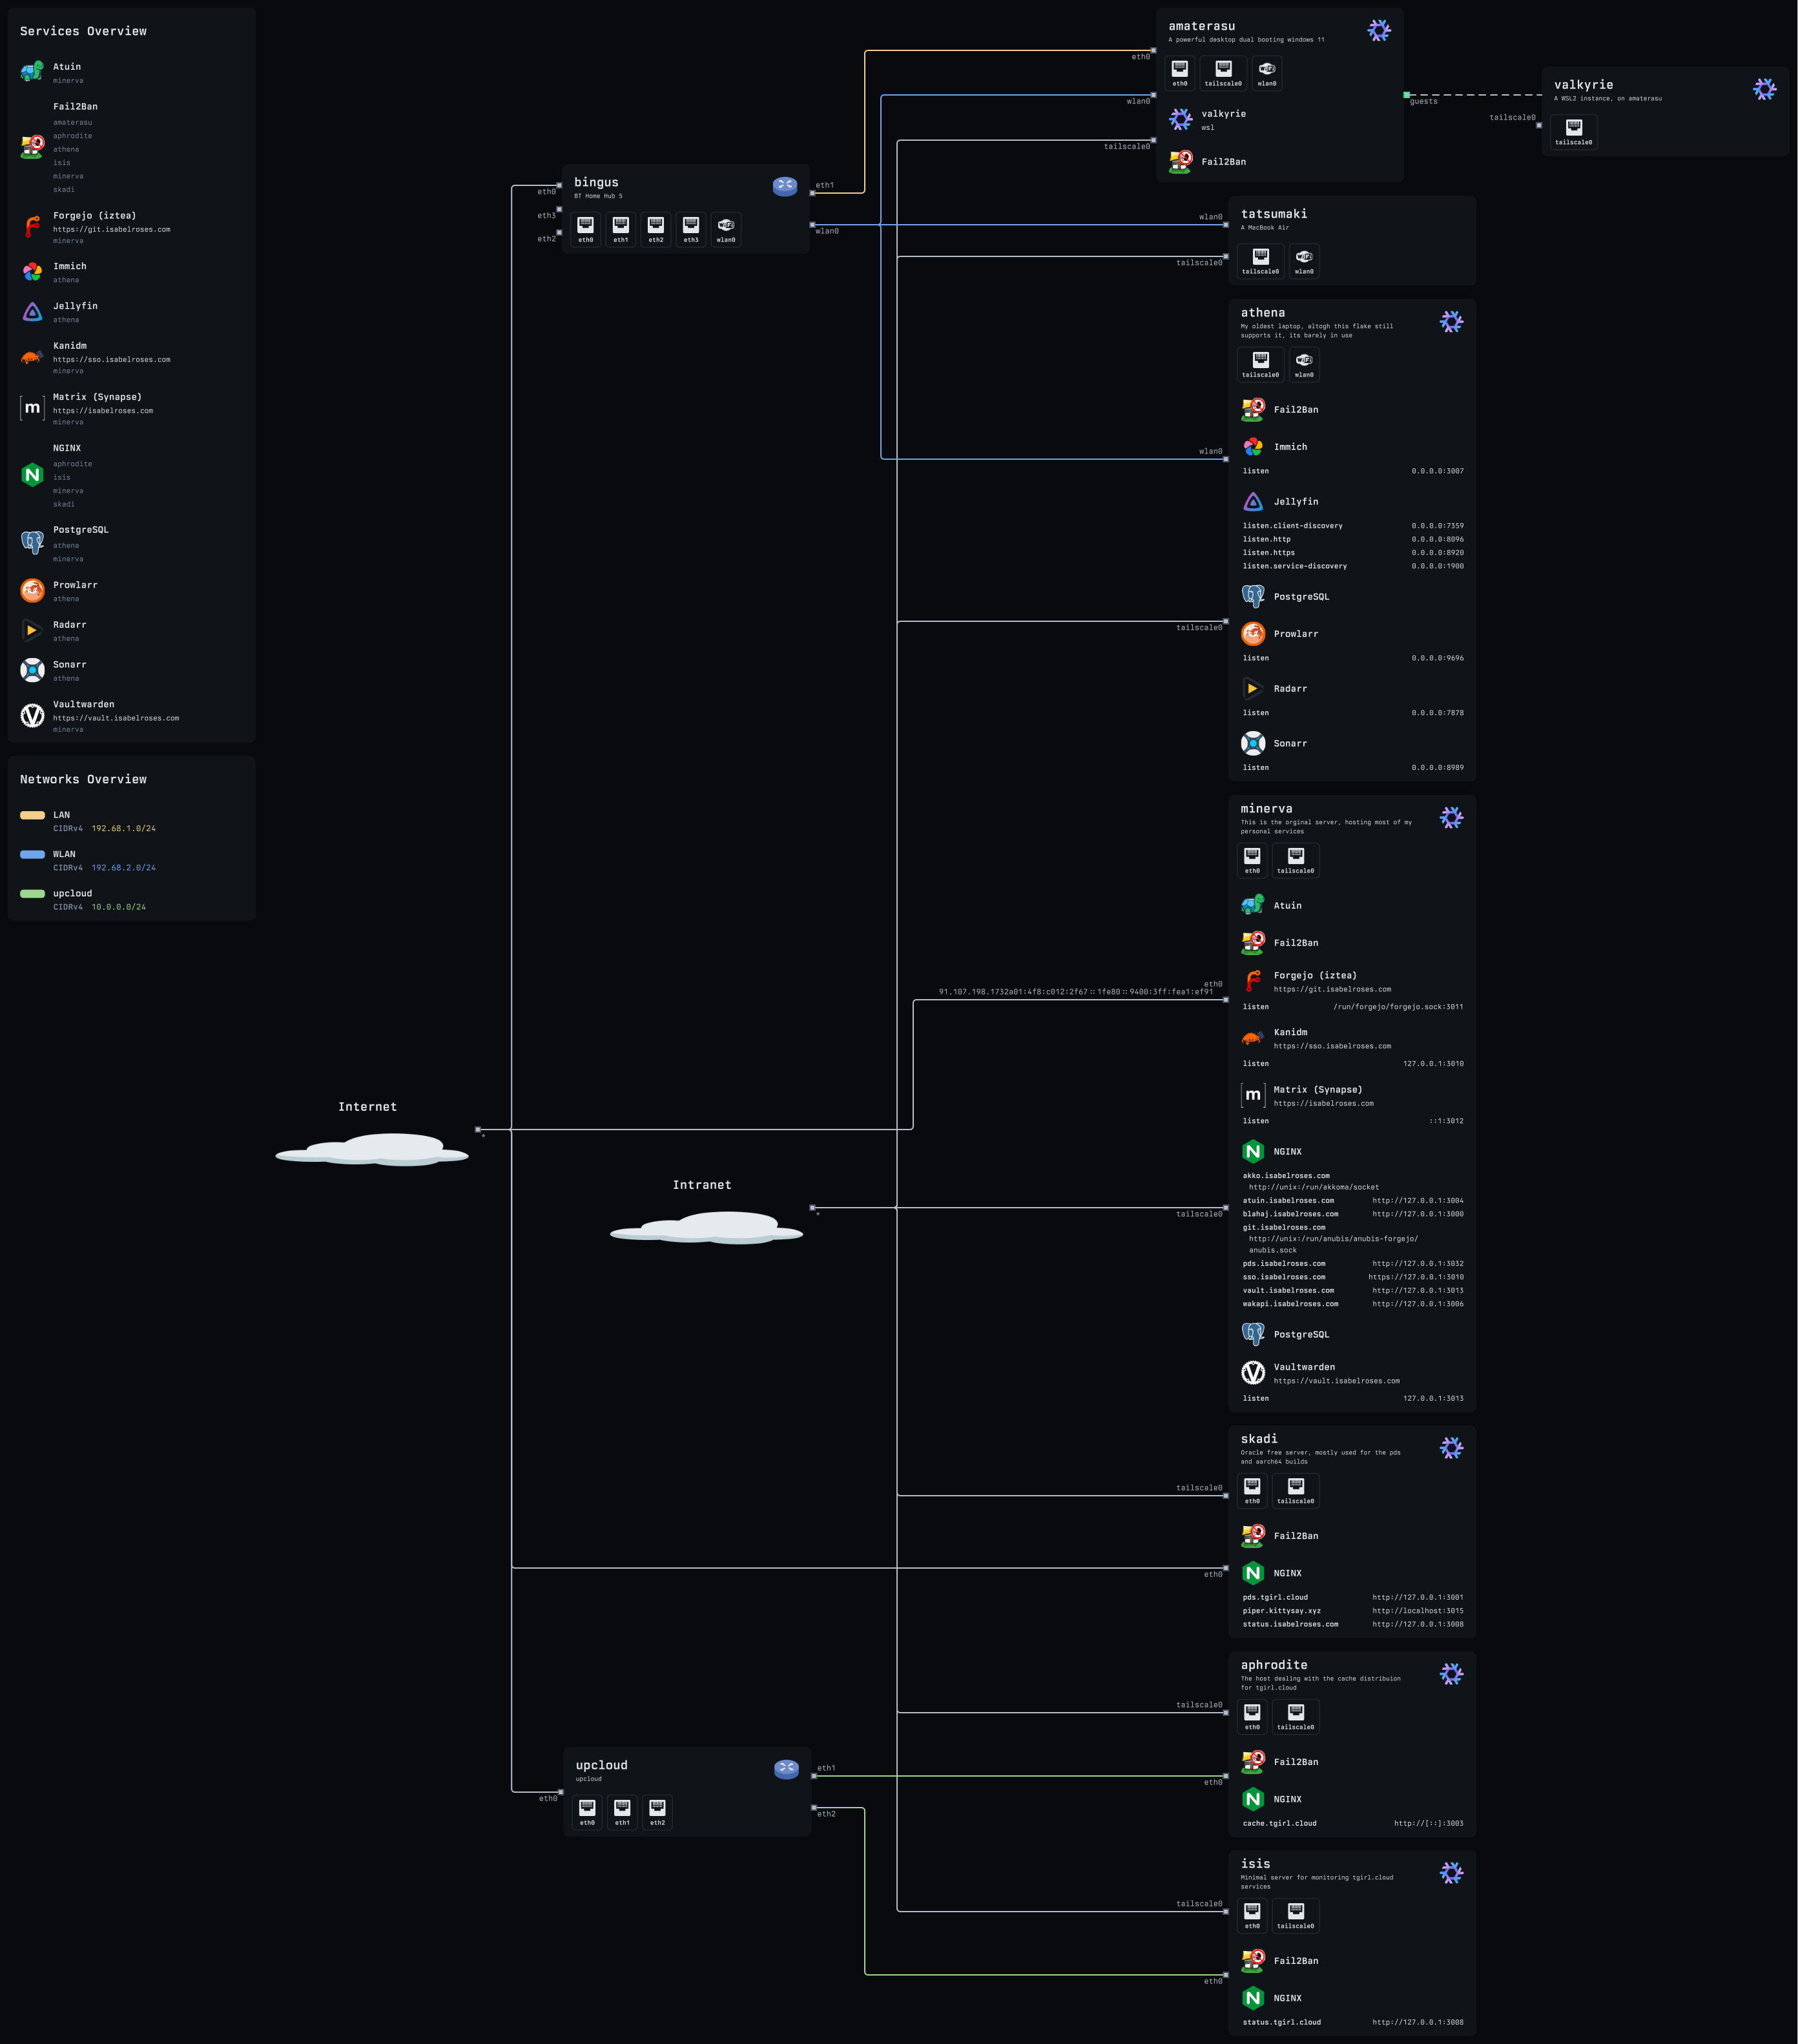
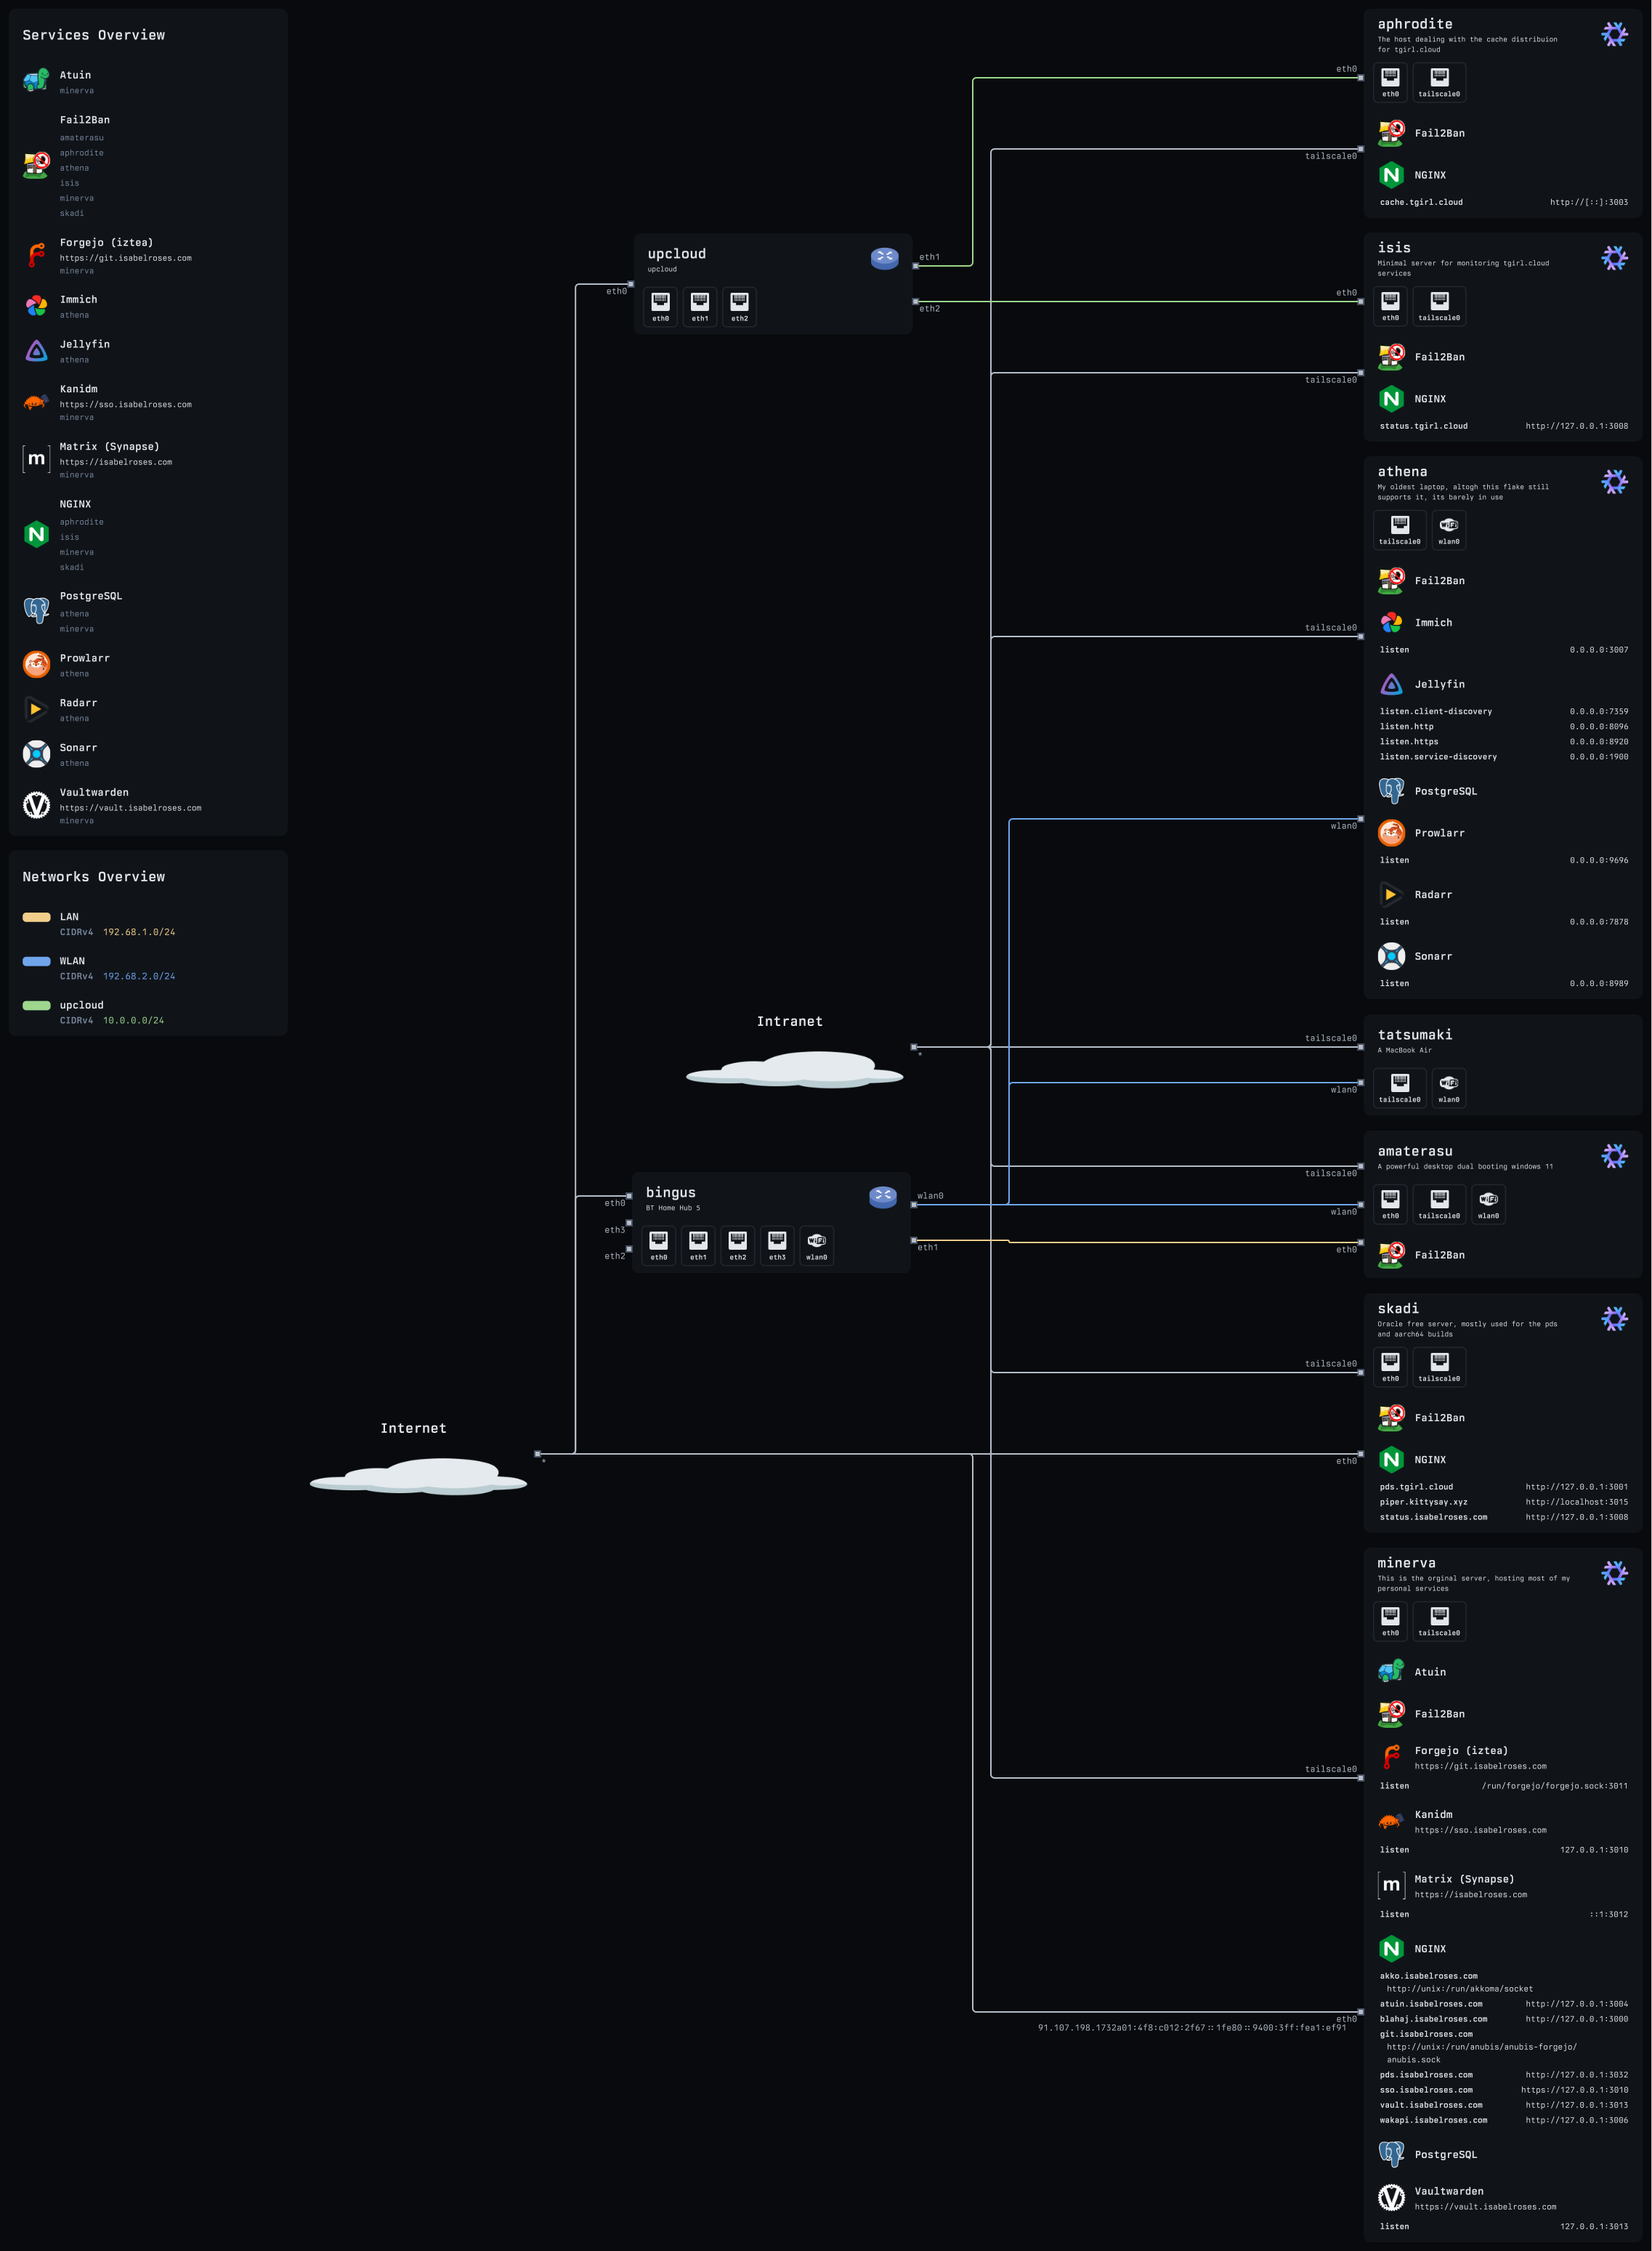
modules/wsl: remove

diff --git a/docs/src/content/docs/guides/adding-systems.md b/docs/src/content/docs/guides/adding-systems.md
@@ -17,7 +17,7 @@ It accepts the following options:
   - options: `"x86_64"`, `"aarch64"`
 - **class**
   - default: `"nixos"`
-  - options: `"nixos"`, `"darwin"`, `"iso"`, `"wsl"`
+  - options: `"nixos"`, `"darwin"`, `"iso"`
 - **modules**
   - default: `[ ]`
   - extra NixOS / nix-darwin modules to import on top of the host's `systems/<hostname>/default.nix`